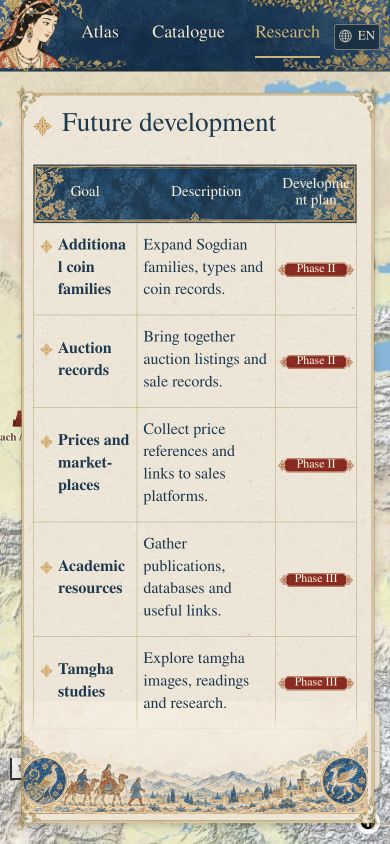
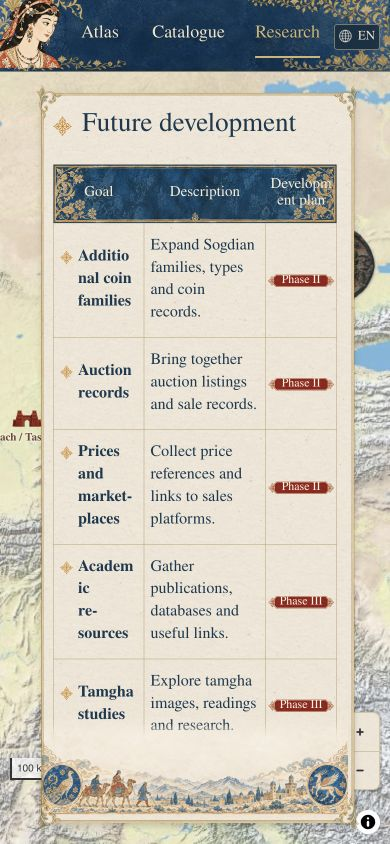
fix(research): widen side margins and blend empty footer paper edge

Changed region(s): [[0.0308, 0.0924, 0.9846, 0.9858]]

diff --git a/app/research-visual.css b/app/research-visual.css
@@ -2,9 +2,10 @@
 .view-research .atlas-screen{position:absolute;inset:var(--atlas-header) 0 0;height:calc(100dvh - var(--atlas-header));pointer-events:none;z-index:0}
 .view-research .atlas-screen .atlas-map-stage{width:100%;flex:1}
 .view-research .atlas-screen :is(.family-drawer,.atlas-search-panel,.timeline-floating,.map-toolbar,.history-controls,.map-error,.map-empty){display:none}
-.view-research .research-page{position:relative;z-index:1;height:calc(100dvh - var(--atlas-header));min-height:0;max-width:none;margin:0;padding:36px 40px;box-sizing:border-box;background:transparent;color:var(--atlas-ink);font:22px/1.45 var(--atlas-serif);overflow:hidden}
+.view-research .research-page{position:relative;z-index:1;height:calc(100dvh - var(--atlas-header));min-height:0;max-width:none;margin:0;padding:36px 120px;box-sizing:border-box;background:transparent;color:var(--atlas-ink);font:22px/1.45 var(--atlas-serif);overflow:hidden}
 .research-frame.catalogue-frame{--research-footer-height:400px;--research-fade:40px;width:100%;height:100%;display:block;padding:0}
-.research-footer-art{position:absolute;left:14px;bottom:18px;width:calc(100% - 28px);height:auto;max-height:none;z-index:0;opacity:1;pointer-events:none;user-select:none}
+/* Blend only the asset’s empty upper paper strip; all illustrated subjects stay opaque. */
+.research-footer-art{position:absolute;left:14px;bottom:18px;width:calc(100% - 28px);height:auto;max-height:none;z-index:0;opacity:1;pointer-events:none;user-select:none;mask-image:linear-gradient(to bottom,transparent,#000 20%,#000)}
 .research-scroll{position:absolute;z-index:1;top:30px;left:clamp(26px,4.7vw,68px);right:clamp(26px,4.7vw,68px);bottom:calc(var(--research-footer-height)*.64 + 18px);overflow:auto;overscroll-behavior:contain;scrollbar-width:thin;scrollbar-color:#c5ad89 transparent;mask-image:linear-gradient(to bottom,#000 0,#000 calc(100% - var(--research-fade)),rgba(0,0,0,.343) calc(100% - var(--research-fade)*.7),rgba(0,0,0,.043) calc(100% - var(--research-fade)*.35),transparent 100%)}
 .research-content{padding:0 0 calc(var(--research-fade) + 60px);min-width:0}
 .research-content :is(h1,h2){display:flex;align-items:center;gap:18px;line-height:1.2;color:var(--atlas-ink);margin:0 0 28px;font-family:var(--atlas-serif)}
@@ -33,7 +34,7 @@
 .research-contact{padding-top:4px}.research-contact>a{font-size:22px}
 .research-scroll:focus-visible,.research-content :is(a,summary):focus-visible{outline:2px solid #306681;outline-offset:3px}
 @media(max-width:760px){
- .view-research .research-page{padding:12px 10px;font-size:16px}
+ .view-research .research-page{padding:12px 30px;font-size:16px}
  .research-frame.catalogue-frame{--research-fade:28px}
  .research-footer-art{left:12px;bottom:15px;width:calc(100% - 24px)}
  .research-scroll{top:26px;left:23px;right:23px;bottom:calc(var(--research-footer-height)*.64 + 15px)}
